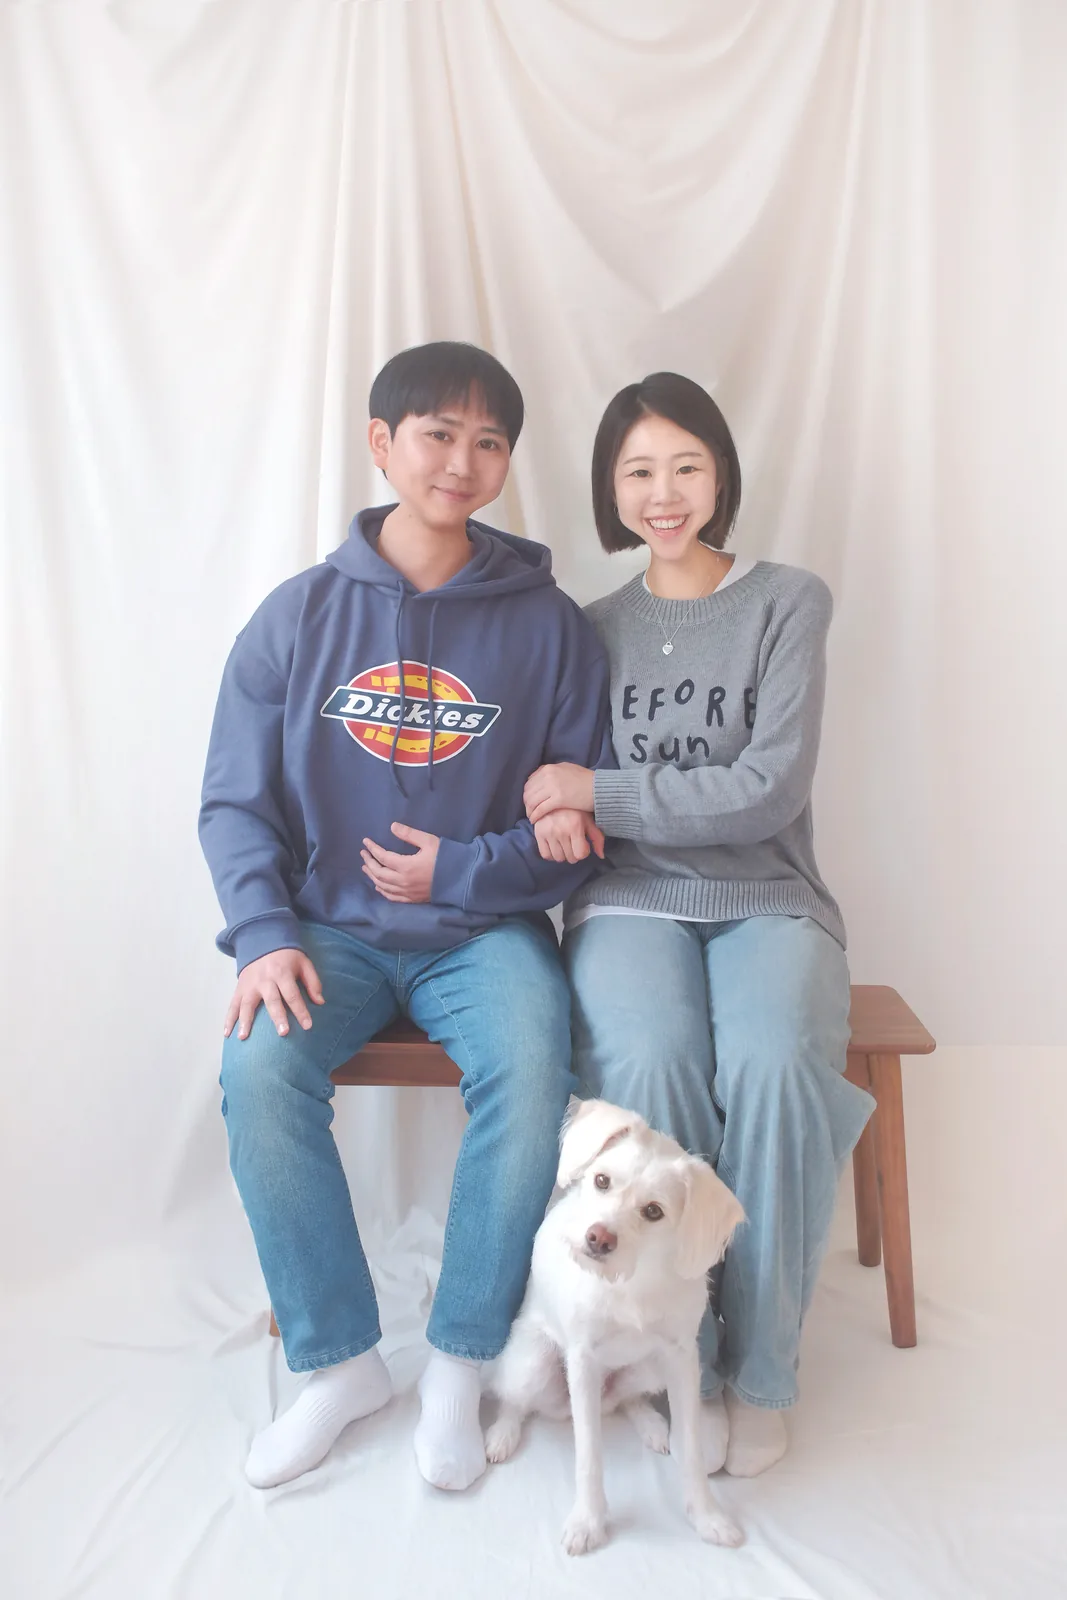
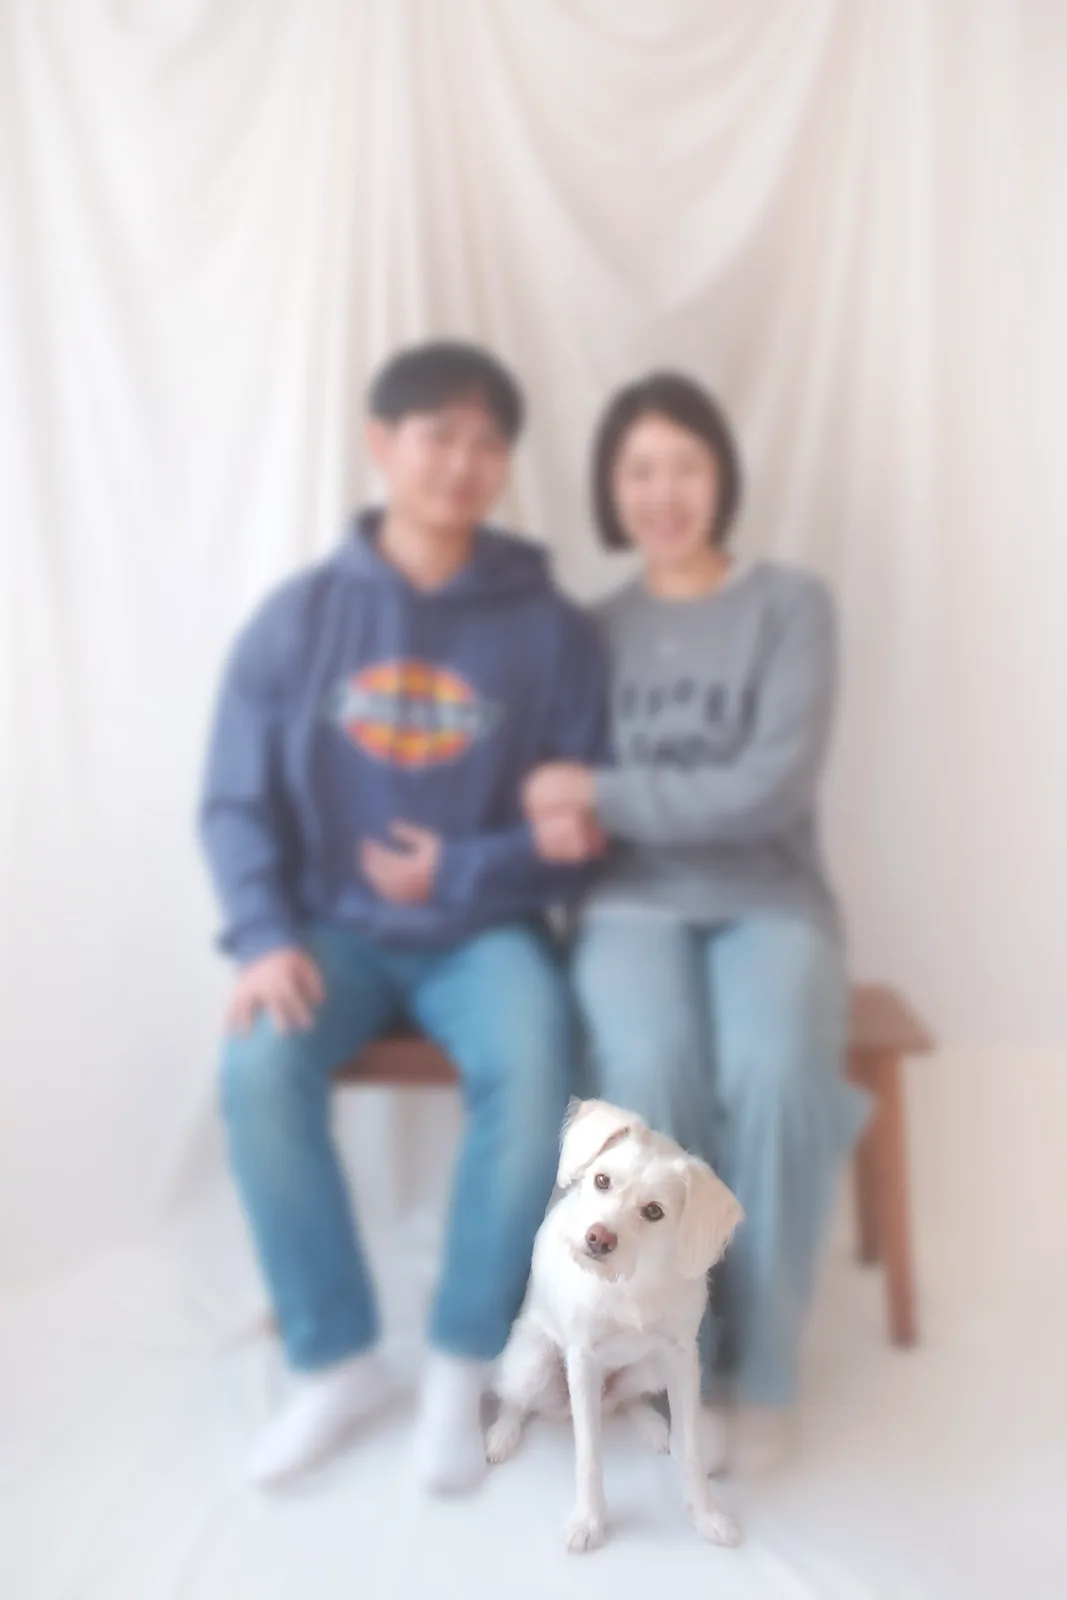
Story: original family photos, dog in focus and the two of us slightly out of focus

diff --git a/src/prepare_assets.py b/src/prepare_assets.py
@@ -3,7 +3,6 @@
 python3 src/prepare_assets.py
 """
 import os, re, shutil, subprocess, sys, unicodedata
-sys.path.insert(0, os.path.dirname(os.path.abspath(__file__)))
 from pathlib import Path
 from PIL import Image, ImageOps, ImageEnhance
 
@@ -200,7 +199,27 @@ def erase(box):
     return fn
 
 
-FAMILY = {'family-2025-a', 'family-2025-b'}  # 가족사진 — 얼굴을 살짝 바꾸고 엄마 얼굴은 환하게, 팔뚝은 얇게 (src/retouch.py)
+def soft_focus(mask_png, work=1800, sigma_ratio=1 / 160):
+    """강아지에게만 초점 — 사람과 배경은 살짝 초점이 어긋난 것처럼만 흐린다(얼굴 모양이 비칠 만큼).
+    강아지 마스크는 Mask R-CNN으로 뽑아 원본 옆에 둔 PNG. 흰 털이 번져 후광이 생기지 않게 마스크로 나눠 흐린다."""
+    import numpy as np
+    from scipy import ndimage
+
+    def fn(im):
+        im = im.resize((work, round(im.height * work / im.width)), Image.LANCZOS)
+        m = np.array(Image.open(mask_png).convert('L').resize(im.size, Image.BILINEAR)).astype(np.float64) / 255
+        m = ndimage.grey_dilation(m, size=3)
+        a = np.array(im.convert('RGB')).astype(np.float64)
+        sigma = work * sigma_ratio
+        w = 1 - m
+        den = ndimage.gaussian_filter(w, sigma) + 1e-6
+        soft = np.stack([ndimage.gaussian_filter(a[..., c] * w, sigma) / den for c in range(3)], axis=-1)
+        keep = ndimage.gaussian_filter(m, work / 900)[..., None]
+        return Image.fromarray(np.clip(a * keep + soft * (1 - keep), 0, 255).astype(np.uint8))
+    return fn
+
+
+FAMILY = {'family-2025-a', 'family-2025-b'}  # 가족사진 — 원본 그대로, 초점만 강아지에게
 
 
 # ── 「응가메이트를 만든 이유」 사진·영상 — 사진 앱에서 꺼내 바탕화면 메로나/웹스토리에 모아 둔 원본
@@ -228,8 +247,7 @@ def story():
             for p in plates:
                 im = erase(p)(im)
             if name in FAMILY:
-                from retouch import retouch
-                im = retouch(name, im, STORY_SRC / 'family-landmarks.json')
+                im = soft_focus(STORY_SRC / f'{name}-dog.png')(im)
             return hide(boxes)(im)
         for size in (1600, 900):
             dim = webp(STORY_SRC / src, f'img/photo/{name}-{size}.webp', width=size, height=size, q=82, fn=fn)
